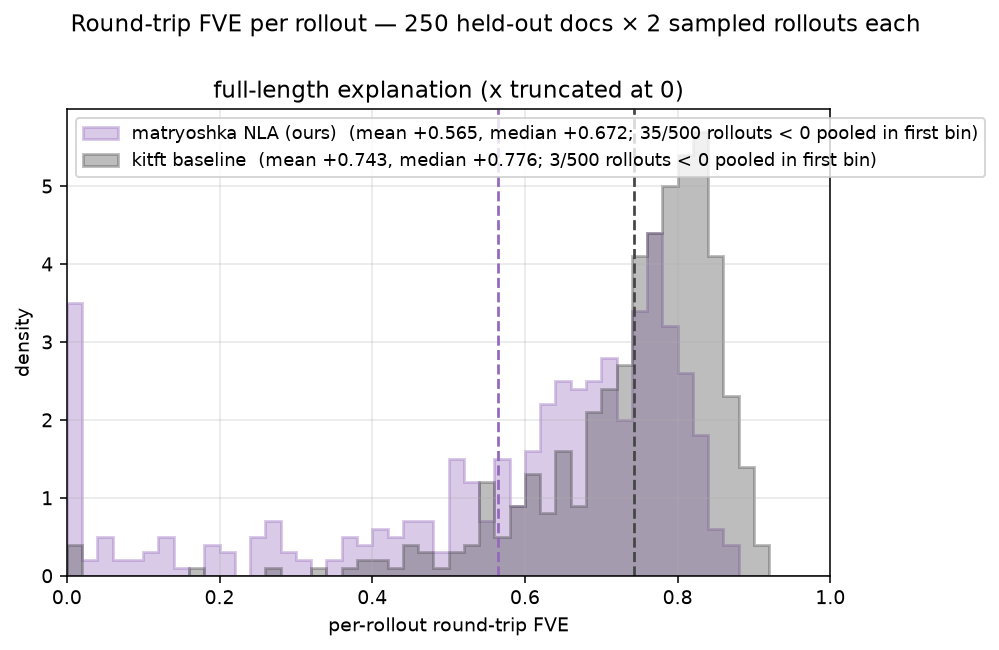
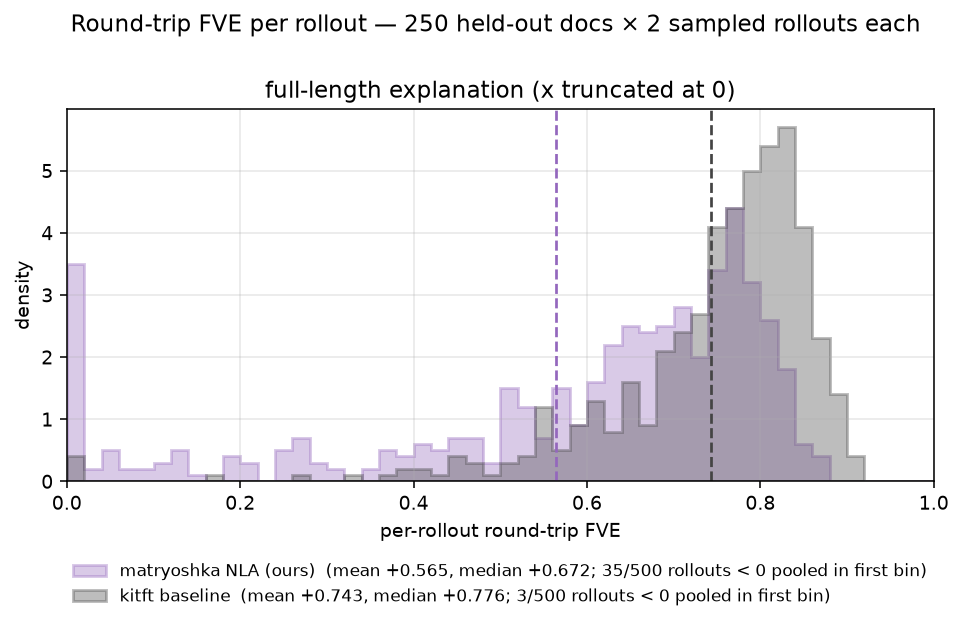
🎨 fve_dist: move histogram legends below the axes (no overlap with bars)
Claude-Session: https://claude.ai/code/session_013QpD8gUKVwdg5FeGc2gDm2

Changed region(s): [[0.0, 0.1214, 0.9979, 0.9712], [0.0624, 0.0, 0.9667, 0.0607]]

diff --git a/experiments/qwen2.5-matryoshka-warmstart-sonnet46/fve_dist/plot_fve_dist.py b/experiments/qwen2.5-matryoshka-warmstart-sonnet46/fve_dist/plot_fve_dist.py
@@ -89,7 +89,7 @@ for ZLO, suffix in [(0.0, ""), (-0.5, "_m0.5")]:
     ax.set_xlabel("per-rollout round-trip FVE")
     ax.set_ylabel("density")
     ax.grid(alpha=0.3)
-    ax.legend(loc="upper left", fontsize=9)
+    ax.legend(loc="upper center", bbox_to_anchor=(0.5, -0.18), fontsize=8.5, frameon=False)
     fig2.suptitle(f"Round-trip FVE per rollout — {nex} held-out docs × {nroll//nex} sampled rollouts each",
                   y=1.0)
     fig2.tight_layout()

diff --git a/experiments/qwen2.5-matryoshka-warmstart-sonnet46/fve_dist/plot_fve_dist_k.py b/experiments/qwen2.5-matryoshka-warmstart-sonnet46/fve_dist/plot_fve_dist_k.py
@@ -46,7 +46,7 @@ ax.set_title(f"first {K} content tokens")
 ax.set_xlabel("per-rollout round-trip FVE")
 ax.set_ylabel("density")
 ax.grid(alpha=0.3)
-ax.legend(loc="upper left", fontsize=9)
+ax.legend(loc="upper center", bbox_to_anchor=(0.5, -0.18), fontsize=8.5, frameon=False)
 fig.suptitle(f"Round-trip FVE per rollout — {nex} held-out docs × {nroll//nex} sampled rollouts each",
              y=1.0)
 fig.tight_layout()
